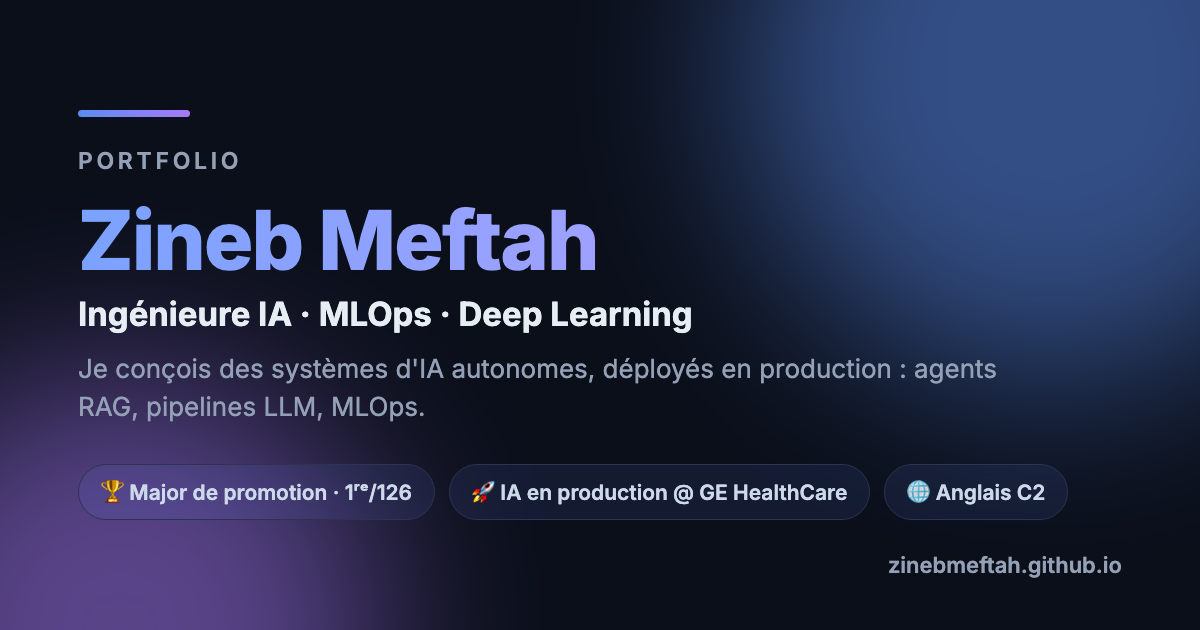
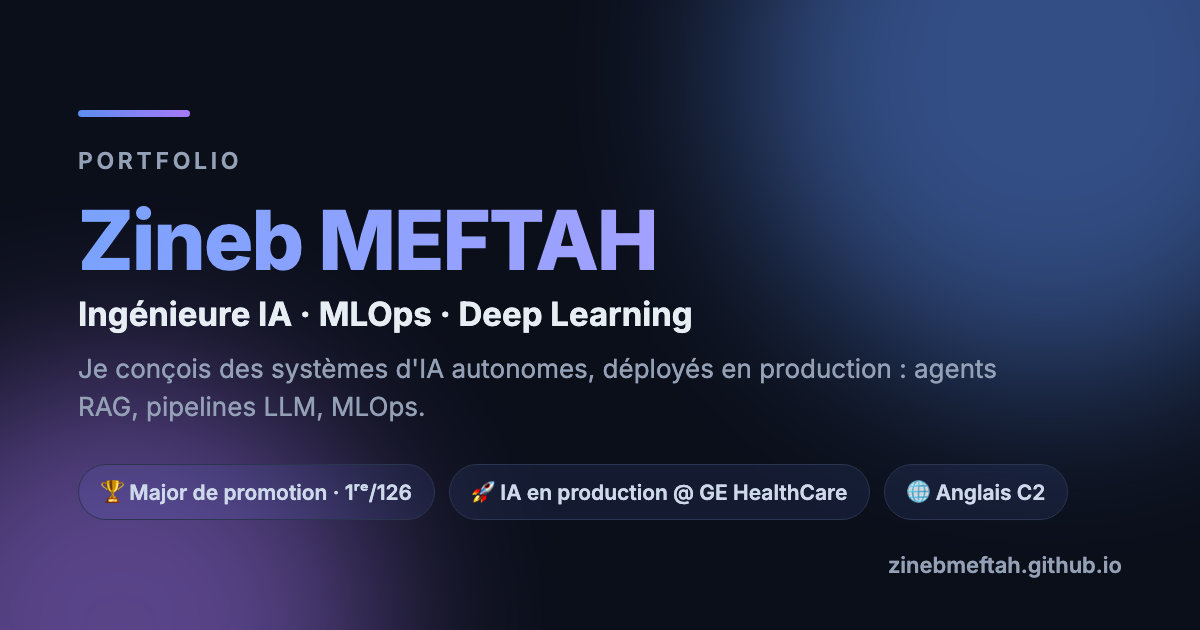
Défilement fluide, nom en capitales, ajustements mobile et tablette
Défilement
- scroll-behavior: smooth était déclaré sur body, alors que l'élément qui
  défile est html : la règle n'avait aucun effet et les liens du menu
  sautaient à la section. Déplacée sur html, avec scroll-padding-top pour que
  les ancres se posent sous la barre fixe. Les 8 liens glissent désormais.
- prefers-reduced-motion respecté.

Nom
- MEFTAH en capitales partout : titre, logo, pied de page, balises sociales,
  données structurées, page alternance, base de connaissances du chat et
  carte de partage régénérée.

Mobile et tablette (320 à 1180 px, portrait et paysage)
- Le hero avait une hauteur fixe de 100vh : sur écran court, le contenu était
  centré donc rogné, et le titre passait au-dessus de la zone visible.
  Hauteur automatique avec min-height, le hero grandit au besoin.
- Le nom du logo passait sur deux lignes puis chevauchait le bouton menu.
  Logo autorisé à se réduire, burger et contrôles à taille fixe.
- Le bouton de chat recouvrait les boutons du hero sur petit écran.
- Badge « Production » remonté de 10 à 11 px.

Vérifié : 0 débordement horizontal sur 7 formats, axe-core 0 violation.

Claude-Session: https://claude.ai/code/session_01R3T9GsKcixJyJ6PPjtG937

Changed region(s): [[0.3083, 0.3317, 0.555, 0.4524]]

diff --git a/index.html b/index.html
@@ -3,26 +3,26 @@
   <head>
     <meta charset="UTF-8" />
     <meta name="viewport" content="width=device-width, initial-scale=1.0" />
-    <title data-translate="page.title">Portfolio - Zineb Meftah</title>
-    <meta name="description" content="Portfolio de Zineb Meftah — Ingénieure IA &amp; MLOps. Systèmes d'IA autonomes en production : agents RAG, pipelines LLM, deep learning. Ex-stagiaire IA &amp; MLOps chez GE HealthCare Paris, étudiante en M1 MLSD à l'Université Paris Cité." />
-    <meta name="keywords" content="Zineb Meftah, Ingénieure IA, MLOps, RAG, LLM, Deep Learning, Portfolio, Alternance IA, Paris" />
-    <meta name="author" content="Zineb Meftah" />
+    <title data-translate="page.title">Portfolio - Zineb MEFTAH</title>
+    <meta name="description" content="Portfolio de Zineb MEFTAH — Ingénieure IA &amp; MLOps. Systèmes d'IA autonomes en production : agents RAG, pipelines LLM, deep learning. Ex-stagiaire IA &amp; MLOps chez GE HealthCare Paris, étudiante en M1 MLSD à l'Université Paris Cité." />
+    <meta name="keywords" content="Zineb MEFTAH, Ingénieure IA, MLOps, RAG, LLM, Deep Learning, Portfolio, Alternance IA, Paris" />
+    <meta name="author" content="Zineb MEFTAH" />
     <link rel="canonical" href="https://zinebmeftah.github.io/" />
 
     <!-- Social sharing (LinkedIn, X, Slack, WhatsApp) -->
     <meta property="og:type" content="website" />
-    <meta property="og:site_name" content="Zineb Meftah — Portfolio" />
+    <meta property="og:site_name" content="Zineb MEFTAH — Portfolio" />
     <meta property="og:url" content="https://zinebmeftah.github.io/" />
-    <meta property="og:title" content="Zineb Meftah — Ingénieure IA · MLOps · Deep Learning" />
+    <meta property="og:title" content="Zineb MEFTAH — Ingénieure IA · MLOps · Deep Learning" />
     <meta property="og:description" content="Je conçois des systèmes d'IA autonomes, déployés en production : agents RAG, pipelines LLM, MLOps. Major de promotion 1ʳᵉ/126 · Ex-GE HealthCare." />
     <meta property="og:image" content="https://zinebmeftah.github.io/assets/images/og-card.png" />
     <meta property="og:image:width" content="1200" />
     <meta property="og:image:height" content="630" />
-    <meta property="og:image:alt" content="Zineb Meftah — Ingénieure IA, MLOps, Deep Learning" />
+    <meta property="og:image:alt" content="Zineb MEFTAH — Ingénieure IA, MLOps, Deep Learning" />
     <meta property="og:locale" content="fr_FR" />
     <meta property="og:locale:alternate" content="en_GB" />
     <meta name="twitter:card" content="summary_large_image" />
-    <meta name="twitter:title" content="Zineb Meftah — Ingénieure IA · MLOps · Deep Learning" />
+    <meta name="twitter:title" content="Zineb MEFTAH — Ingénieure IA · MLOps · Deep Learning" />
     <meta name="twitter:description" content="Je conçois des systèmes d'IA autonomes, déployés en production : agents RAG, pipelines LLM, MLOps." />
     <meta name="twitter:image" content="https://zinebmeftah.github.io/assets/images/og-card.png" />
 
@@ -40,7 +40,7 @@
 {
           "@context": "https://schema.org",
           "@type": "Person",
-          "name": "Zineb Meftah",
+          "name": "Zineb MEFTAH",
           "alternateName": "MEFTAH Zineb",
           "url": "https://zinebmeftah.github.io/",
           "image": "https://zinebmeftah.github.io/assets/images/og-card.png",
@@ -120,7 +120,7 @@
     <nav role="navigation" aria-label="Navigation principale">
       <div class="nav-container">
         <div class="logo">
-          <a href="#header" data-translate="nav.title">Zineb Meftah</a>
+          <a href="#header" data-translate="nav.title">Zineb MEFTAH</a>
         </div>
         <div class="burger" id="burger" aria-label="Toggle menu" aria-expanded="false" role="button">
           <div class="line1"></div>
@@ -153,7 +153,7 @@
     <header id="header" role="banner">
       <div class="header-overlay"></div>
       <div class="header-content">
-        <h1 data-translate="header.title">Zineb Meftah</h1>
+        <h1 data-translate="header.title">Zineb MEFTAH</h1>
         <p data-translate="header.subtitle">Je conçois des systèmes IA autonomes, déployés en production.</p>
         <p class="header-tagline" data-translate="header.tagline">Double compétence : ingénierie logicielle + IA · MLOps · Deep Learning</p>
         <div class="hero-chips">
@@ -180,7 +180,7 @@
           <h2 id="profil-heading" data-translate="profile.heading">À Propos de Moi</h2>
           <div class="profile-content">
             <div class="profile-text">
-              <h3 data-translate="profile.greeting">Bonjour, je suis Zineb Meftah.</h3>
+              <h3 data-translate="profile.greeting">Bonjour, je suis Zineb MEFTAH.</h3>
               <p data-translate="profile.text1">Major de promotion en L2 et L3 à l’Université d’Avignon (1ʳᵉ sur 126 étudiants, moyenne &gt; 15/20) et issue du cycle préparatoire d’élite de l’ENSIA (Alger). Après un stage d’ingénierie IA &amp; MLOps chez GE HealthCare à Paris, je conçois et déploie des systèmes d’IA en production : agents RAG, pipelines LLM et systèmes autonomes.</p>
               <p data-translate="profile.text2">J’ai notamment développé un agent RAG permettant d’interroger des documentations techniques complexes en langage naturel, ainsi qu’un système d’outreach IA entièrement autonome déployé en production. Je suis actuellement en Master 1 MLSD à l’Université Paris Cité, et je cherche l’entreprise où mettre tout cela en pratique — en CDI, CDD ou alternance.</p>
               <p class="profile-highlight" data-translate="profile.highlight">Ce qui me distingue : réunir une vraie rigueur d’ingénieure — code, backend, systèmes complexes — et la maîtrise de l’IA pour en faire des solutions qui tournent réellement, en production.</p>
@@ -985,7 +985,7 @@
             </div>
             <div class="info-card">
               <h3 data-translate="info.linkedin">🔗 LinkedIn</h3>
-              <p><a href="https://www.linkedin.com/in/zinebmeftah" target="_blank" rel="noopener noreferrer">Meftah Zineb</a></p>
+              <p><a href="https://www.linkedin.com/in/zinebmeftah" target="_blank" rel="noopener noreferrer">Zineb MEFTAH</a></p>
             </div>
             <div class="info-card">
               <h3 data-translate="info.portfolio">🌐 Portfolio</h3>
@@ -1009,7 +1009,7 @@
     </main>
 
     <footer role="contentinfo">
-      <div class="container"><p data-translate="footer.copy">© 2025–2026 Zineb Meftah. Tous droits réservés.</p></div>
+      <div class="container"><p data-translate="footer.copy">© 2025–2026 Zineb MEFTAH. Tous droits réservés.</p></div>
     </footer>
 
     <button id="chat-toggle" class="chat-toggle" aria-label="Open chat">💬</button>

diff --git a/script.js b/script.js
@@ -168,9 +168,9 @@ document.addEventListener("DOMContentLoaded", () => {
 const translations = {
     fr: {
       // ... (Keep previous translations the same) ...
-      "page.title": "Portfolio - Zineb Meftah",
-      "nav.title": "Zineb Meftah",
-      "header.title": "Zineb Meftah",
+      "page.title": "Portfolio - Zineb MEFTAH",
+      "nav.title": "Zineb MEFTAH",
+      "header.title": "Zineb MEFTAH",
       "header.subtitle": "Je conçois des systèmes IA autonomes, déployés en production.",
       "header.tagline": "Double compétence : ingénierie logicielle + IA · MLOps · Deep Learning",
       "hero.chip0": "Double profil : Ingénierie + IA", "hero.chip1": "Major de promotion · 1ʳᵉ/126", "hero.chip2": "IA en production @ GE HealthCare", "hero.chip3": "Anglais C2 · LanguageCert",
@@ -198,7 +198,7 @@ const translations = {
 
       // Profile
       "profile.heading": "À Propos de Moi",
-      "profile.greeting": "Bonjour, je suis Zineb Meftah.",
+      "profile.greeting": "Bonjour, je suis Zineb MEFTAH.",
       "profile.text1": "Major de promotion en L2 et L3 à l’Université d’Avignon (1ʳᵉ sur 126 étudiants, moyenne > 15/20) et issue du cycle préparatoire d’élite de l’ENSIA (Alger). Après un stage d’ingénierie IA & MLOps chez GE HealthCare à Paris, je conçois et déploie des systèmes d’IA en production : agents RAG, pipelines LLM et systèmes autonomes.",
       "profile.text2": "J’ai notamment développé un agent RAG permettant d’interroger des documentations techniques complexes en langage naturel, un système d’outreach IA entièrement autonome déployé en production, ainsi qu’un moteur de contenu autonome en boucle fermée qui crée et publie sur YouTube, TikTok, Instagram et Facebook. Je suis actuellement en Master 1 MLSD (Machine Learning pour la Science des Données) à l’Université Paris Cité, et je cherche l’entreprise où mettre tout cela en pratique — en CDI, CDD ou alternance.",
       "profile.highlight": "Ce qui me distingue : réunir une vraie rigueur d’ingénieure — code, backend, systèmes complexes — et la maîtrise de l’IA pour en faire des solutions qui tournent réellement, en production.",
@@ -294,12 +294,12 @@ const translations = {
       "chat.greeting": "Bonjour ! Posez-moi vos questions sur mon parcours, mes projets ou mes compétences.",
       "chat.thinking": "…",
       "chat.unavailable": "L’assistant est momentanément indisponible. Écrivez-moi à zineb.meftah36@gmail.com — je réponds vite.",
-      "footer.copy": "© 2025–2026 Zineb Meftah. Tous droits réservés."
+      "footer.copy": "© 2025–2026 Zineb MEFTAH. Tous droits réservés."
     },
     en: {
-      "page.title": "Portfolio - Zineb Meftah",
-      "nav.title": "Zineb Meftah",
-      "header.title": "Zineb Meftah",
+      "page.title": "Portfolio - Zineb MEFTAH",
+      "nav.title": "Zineb MEFTAH",
+      "header.title": "Zineb MEFTAH",
       "header.subtitle": "I build autonomous AI systems that run in production.",
       "header.tagline": "Software engineering + AI · MLOps · Deep Learning",
       "hero.chip0": "Dual profile: Engineering + AI", "hero.chip1": "Top of class · 1st/126", "hero.chip2": "Production AI @ GE HealthCare", "hero.chip3": "English C2 · LanguageCert",
@@ -316,7 +316,7 @@ const translations = {
 
       "formation.heading": "Education & Certificates", "publications.heading": "Publications", "projects.heading": "Projects & Experience", "experience.heading": "Experience & Leadership", "competences.heading": "Skills", "langues.heading": "Languages", "contact.heading": "Contact",
 
-      "profile.heading": "About Me", "profile.greeting": "Hi, I’m Zineb Meftah.",
+      "profile.heading": "About Me", "profile.greeting": "Hi, I’m Zineb MEFTAH.",
       "profile.text1": "Ranked 1st of my class in L2 and L3 at the University of Avignon (1st of 126 students, average > 15/20), from ENSIA's elite AI preparatory program (Algiers). Fresh from an AI & MLOps Engineering internship at GE HealthCare in Paris, I design and deploy production AI systems: RAG agents, LLM pipelines and autonomous systems.",
       "profile.text2": "Notably, I built a production RAG agent that lets teams query complex technical documentation in natural language, a fully autonomous AI outreach system deployed in production, and a closed-loop content engine that creates and publishes across YouTube, TikTok, Instagram and Facebook. I am currently in the M1 MLSD (Machine Learning for Data Science) at Université Paris Cité, looking for the company where I can put all of this into practice — on a permanent, fixed-term or work-study contract.",
       "profile.highlight": "What sets me apart: combining genuine engineering rigor — code, backend, complex systems — with strong AI expertise to ship solutions that actually run in production.",
@@ -411,7 +411,7 @@ const translations = {
       "chat.greeting": "Hi! Ask me anything about my background, my projects or my skills.",
       "chat.thinking": "…",
       "chat.unavailable": "The assistant is temporarily unavailable. Email me at zineb.meftah36@gmail.com — I reply quickly.",
-      "footer.copy": "© 2025–2026 Zineb Meftah. All rights reserved."
+      "footer.copy": "© 2025–2026 Zineb MEFTAH. All rights reserved."
     },
     ar: {
       "page.title": "المعرض - زينب مفتاح",
@@ -674,7 +674,7 @@ const translations = {
     scrollIndicator.addEventListener("click", () => {
       const firstSection = document.querySelector("main section");
       if (firstSection) {
-        window.scrollTo({ top: firstSection.offsetTop - 60, behavior: "smooth" });
+        firstSection.scrollIntoView({ behavior: "smooth", block: "start" });
       }
     });
   }

diff --git a/alternance/index.html b/alternance/index.html
@@ -3,24 +3,24 @@
 <head>
 <meta charset="utf-8">
 <meta name="viewport" content="width=device-width, initial-scale=1">
-<title>Zineb Meftah — Ingénieure IA · Alternance, CDI ou CDD</title>
+<title>Zineb MEFTAH — Ingénieure IA · Alternance, CDI ou CDD</title>
 <meta name="description" content="Ingénieure IA, major de promotion (1re/126). En Master 1 MLSD à l'Université Paris Cité — disponible en alternance, CDI ou CDD. Systèmes IA autonomes déployés en production.">
-<meta name="author" content="Zineb Meftah">
+<meta name="author" content="Zineb MEFTAH">
 <link rel="canonical" href="https://zinebmeftah.github.io/alternance/">
 
 <!-- Social sharing: this is the page sent directly to recruiters. -->
 <meta property="og:type" content="profile">
-<meta property="og:site_name" content="Zineb Meftah — Portfolio">
+<meta property="og:site_name" content="Zineb MEFTAH — Portfolio">
 <meta property="og:url" content="https://zinebmeftah.github.io/alternance/">
-<meta property="og:title" content="Zineb Meftah — Ingénieure IA · Alternance, CDI ou CDD">
+<meta property="og:title" content="Zineb MEFTAH — Ingénieure IA · Alternance, CDI ou CDD">
 <meta property="og:description" content="Major de promotion (1ʳᵉ/126), ex-GE HealthCare. En Master 1 MLSD à l'Université Paris Cité — disponible en alternance, CDI ou CDD.">
 <meta property="og:image" content="https://zinebmeftah.github.io/assets/images/og-card.png">
 <meta property="og:image:width" content="1200">
 <meta property="og:image:height" content="630">
-<meta property="og:image:alt" content="Zineb Meftah — Ingénieure IA, MLOps, Deep Learning">
+<meta property="og:image:alt" content="Zineb MEFTAH — Ingénieure IA, MLOps, Deep Learning">
 <meta property="og:locale" content="fr_FR">
 <meta name="twitter:card" content="summary_large_image">
-<meta name="twitter:title" content="Zineb Meftah — Ingénieure IA · Alternance, CDI ou CDD">
+<meta name="twitter:title" content="Zineb MEFTAH — Ingénieure IA · Alternance, CDI ou CDD">
 <meta name="twitter:description" content="Major de promotion (1ʳᵉ/126), ex-GE HealthCare. Disponible en alternance, CDI ou CDD.">
 <meta name="twitter:image" content="https://zinebmeftah.github.io/assets/images/og-card.png">
 
@@ -103,7 +103,7 @@
 </head>
 <body class="fr">
 <header class="bar"><div class="wrap">
-  <div class="brand">Zineb Meftah<span class="dot">.</span></div>
+  <div class="brand">Zineb MEFTAH<span class="dot">.</span></div>
   <nav class="nav">
     <button class="btn" id="lang" onclick="toggleLang()" aria-label="Switch language">EN</button>
     <a class="btn" href="https://www.linkedin.com/in/zinebmeftah" target="_blank" rel="noopener">LinkedIn</a>
@@ -177,7 +177,7 @@
 </main>
 
 <footer><div class="wrap">
-  <div><span class="fr">Zineb Meftah — Ingénieure IA · Paris</span><span class="en">Zineb Meftah — AI Engineer · Paris</span></div>
+  <div><span class="fr">Zineb MEFTAH — Ingénieure IA · Paris</span><span class="en">Zineb MEFTAH — AI Engineer · Paris</span></div>
   <div>
     <a href="https://www.linkedin.com/in/zinebmeftah" target="_blank" rel="noopener">LinkedIn</a>
     <a href="https://github.com/ZinebMEFTAH" target="_blank" rel="noopener">GitHub</a>

diff --git a/styles.css b/styles.css
@@ -167,11 +167,22 @@ p, li, .info-card p, .flip-card-back p, .flip-card-front p {
     box-sizing: border-box;
 }
 
+html {
+    /* The scrolling element is <html>, not <body>: declared on body this had
+       no effect and anchor links jumped instead of gliding. */
+    scroll-behavior: smooth;
+    /* Anchors land below the fixed navbar instead of underneath it. */
+    scroll-padding-top: var(--anchor-offset);
+}
+
+@media (prefers-reduced-motion: reduce) {
+    html { scroll-behavior: auto; }
+}
+
 body {
     font-family: 'Inter', -apple-system, BlinkMacSystemFont, 'Segoe UI', sans-serif;
     background: var(--bg-color);
     color: var(--text-color);
-    scroll-behavior: smooth;
     line-height: 1.6;
     -webkit-font-smoothing: antialiased;
     -moz-osx-font-smoothing: grayscale;
@@ -345,8 +356,12 @@ nav ul li a:hover {
 
 header {
     position: relative;
-    height: 100vh;
     min-height: 100vh;
+    height: auto;
+    /* Clears the fixed navbar and lets the hero grow on short screens rather
+       than centring content that no longer fits and clipping the title. */
+    padding: calc(var(--anchor-offset) + 24px) 0 48px;
+    box-sizing: border-box;
     /* source.unsplash.com was retired and now 503s on every load; the hero is
        painted entirely in CSS instead. */
     background:
@@ -2767,3 +2782,39 @@ img, svg, video, canvas, table { max-width: 100%; }
   .pub-table-scroll { max-height: 300px; }
   .pub-modal-box { padding: 18px 16px 20px; max-height: 86vh; }
 }
+
+/* ---- Small-screen navbar ----
+   The name must stay on one line without running into the burger, so the logo
+   is allowed to shrink and the burger is pinned at its intrinsic size. */
+.logo {
+  min-width: 0;
+  flex: 0 1 auto;
+  overflow: hidden;
+}
+.logo a {
+  white-space: nowrap;
+}
+.burger {
+  flex: 0 0 auto;
+}
+.controls {
+  flex: 0 0 auto;
+}
+@media (max-width: 480px) {
+  .nav-container { width: 94%; gap: 10px; }
+  .logo a { font-size: 1rem; }
+  /* The floating chat button used to sit on top of the hero buttons. */
+  .hero-cta { padding-bottom: 72px; }
+}
+@media (max-width: 380px) {
+  .logo a { font-size: 0.9rem; }
+  .nav-container { gap: 8px; }
+  #chat-toggle { width: 48px; height: 48px; right: 14px; bottom: 14px; }
+}
+@media (max-width: 340px) {
+  .logo a { font-size: 0.82rem; }
+  .nav-container { width: 96%; gap: 6px; }
+}
+
+/* 10px uppercase was below comfortable reading size. */
+.featured-badge { font-size: 0.68rem; }

diff --git a/worker/src/index.js b/worker/src/index.js
@@ -1,7 +1,7 @@
 /**
  * Portfolio chat worker.
  *
- * Answers questions about Zineb Meftah using the page content the browser sends
+ * Answers questions about Zineb MEFTAH using the page content the browser sends
  * as `context`, so the assistant can only speak from what the portfolio says.
  *
  * Deploy:
@@ -27,7 +27,7 @@ const FALLBACK_MODELS = [
 const MAX_MESSAGE_CHARS = 1000;
 const MAX_CONTEXT_CHARS = 14000;
 
-const SYSTEM_PROMPT = `Tu es l'assistant du portfolio de Zineb Meftah (ingénieure IA, MLOps, deep learning).
+const SYSTEM_PROMPT = `Tu es l'assistant du portfolio de Zineb MEFTAH (ingénieure IA, MLOps, deep learning).
 
 Règles:
 - Réponds UNIQUEMENT à partir du CONTEXTE fourni. Si l'information n'y est pas, dis-le simplement et invite à écrire à zineb.meftah36@gmail.com.

diff --git a/kb/identity.md b/kb/identity.md
@@ -1,3 +1,3 @@
 # Identity & Core Mission
 
-Name: Meftah Zineb. AI and MLOps engineer specializing in Deep Learning, Robotics and production LLM systems. She holds a B.Sc. in Computer Science (AI track) from the University of Avignon and is currently in the Master 1 MLSD (Machine Learning for Data Science) at Université Paris Cité, for the 2026-2027 year. She was an AI & MLOps Engineering Intern at GE HealthCare Paris (May-July 2026), where she shipped a production RAG agent and re-architected it as a multi-agent system on Microsoft Copilot Studio. Portfolio: zinebmeftah.github.io. Known for bridging the gap between theoretical AI research and production-ready software engineering.
+Name: Zineb MEFTAH. AI and MLOps engineer specializing in Deep Learning, Robotics and production LLM systems. She holds a B.Sc. in Computer Science (AI track) from the University of Avignon and is currently in the Master 1 MLSD (Machine Learning for Data Science) at Université Paris Cité, for the 2026-2027 year. She was an AI & MLOps Engineering Intern at GE HealthCare Paris (May-July 2026), where she shipped a production RAG agent and re-architected it as a multi-agent system on Microsoft Copilot Studio. Portfolio: zinebmeftah.github.io. Known for bridging the gap between theoretical AI research and production-ready software engineering.

diff --git a/README.md b/README.md
@@ -1,4 +1,4 @@
-# Zineb Meftah — Portfolio
+# Zineb MEFTAH — Portfolio
 
 Live site: **https://zinebmeftah.github.io**
 
